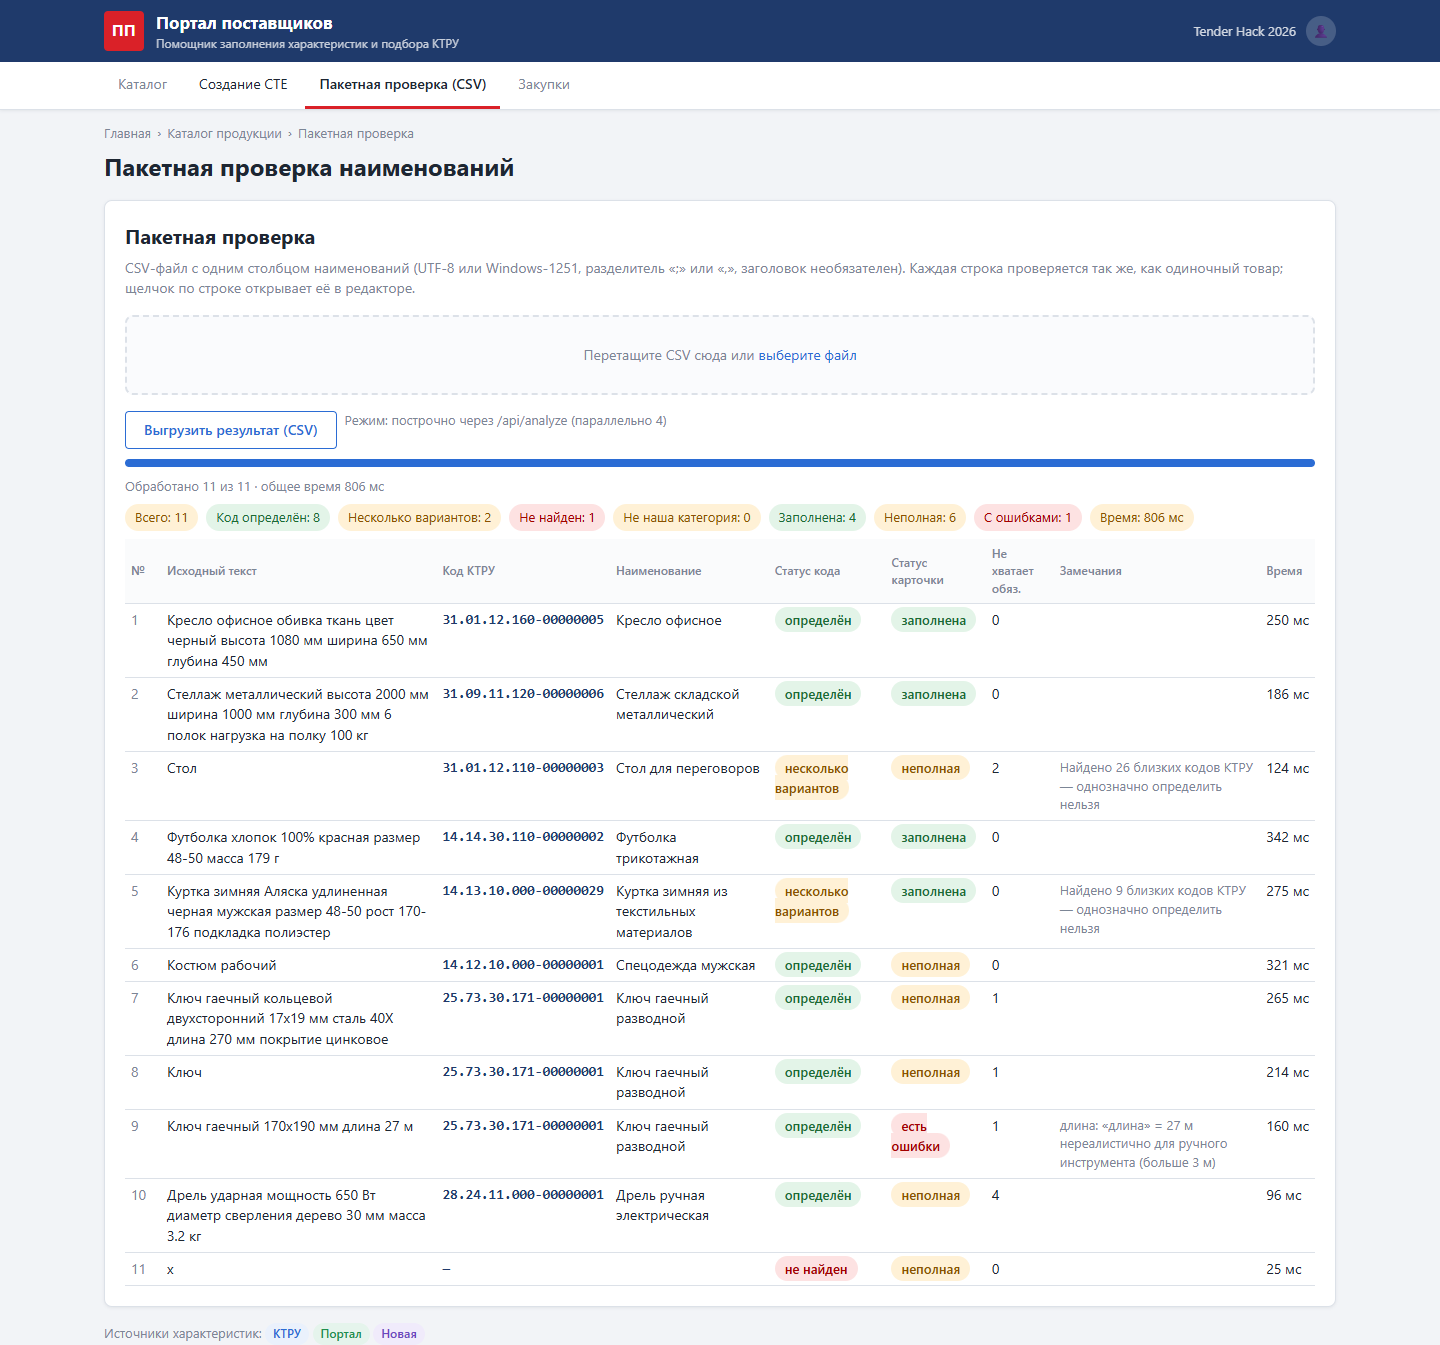
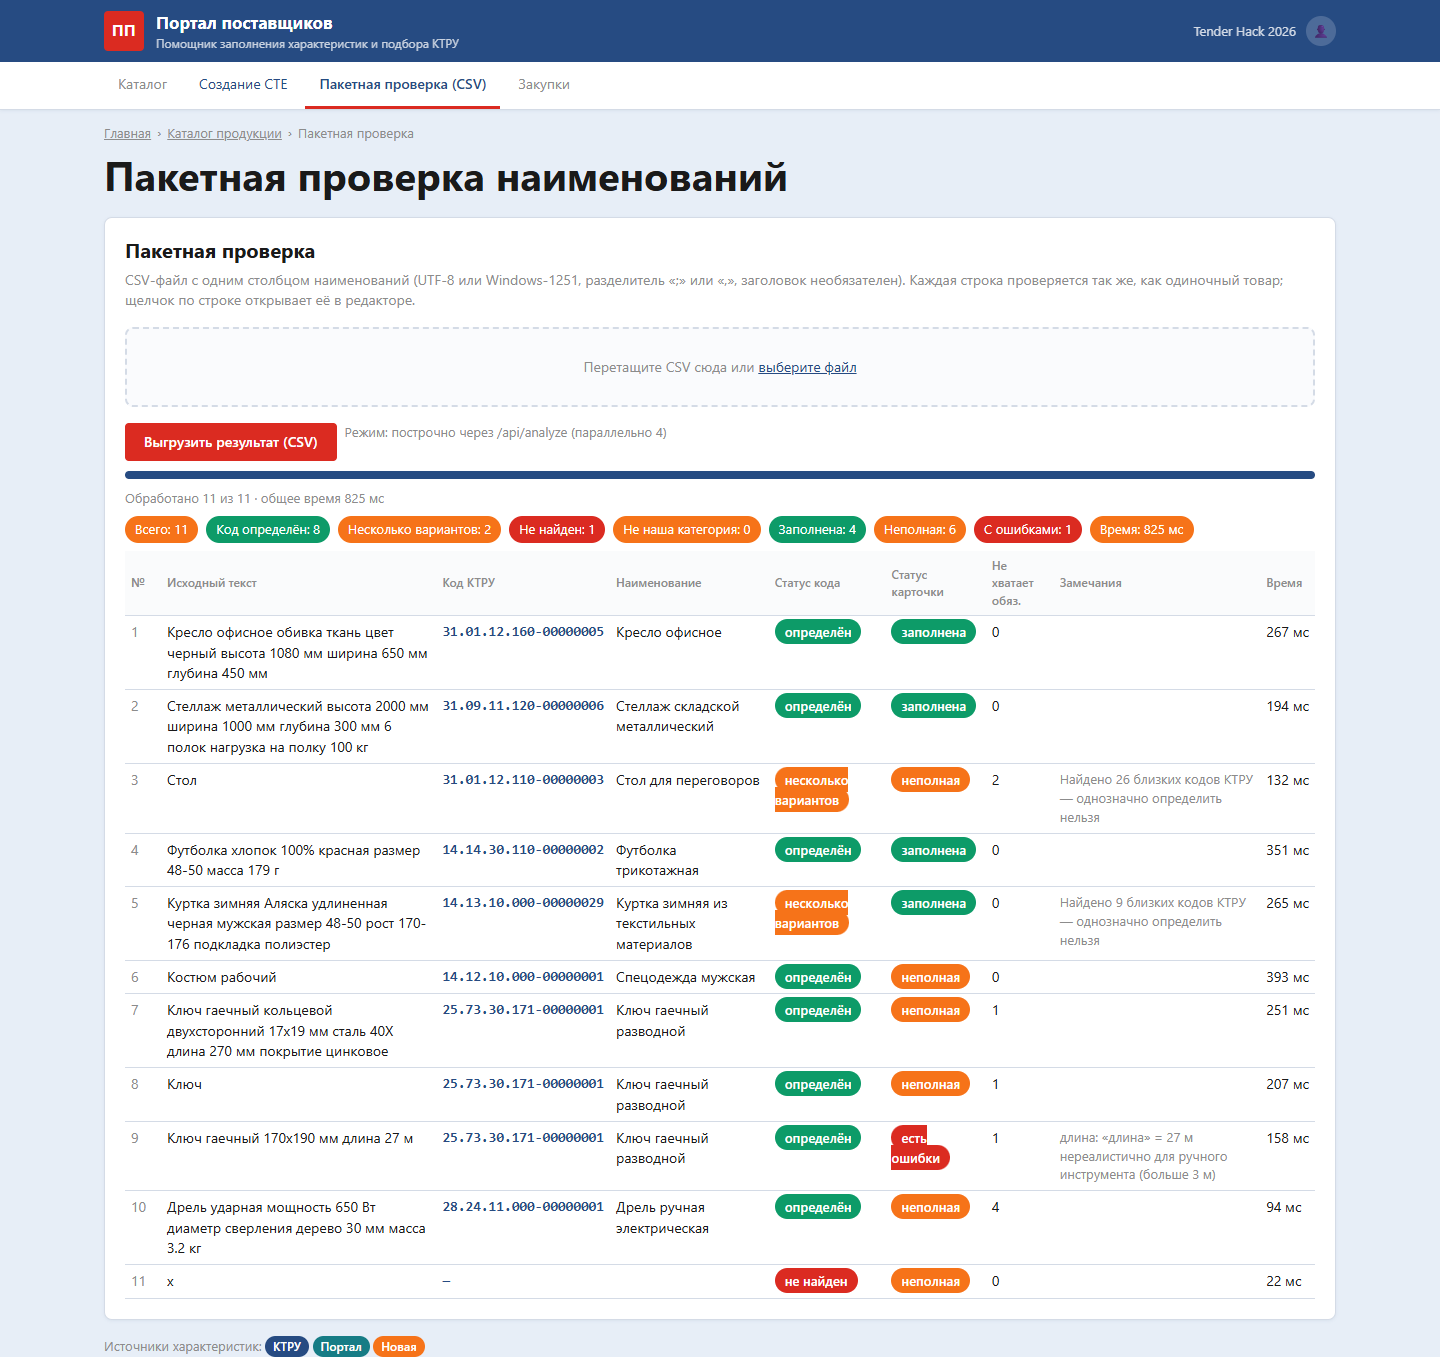
UI: apply Figma UI-kit portal tokens (colors, Open Sans, buttons, tags, badges), bump asset version, refresh screenshots

diff --git a/frontend/styles.css b/frontend/styles.css
@@ -1,39 +1,33 @@
 /* ============================================================================
- * Дизайн-токены «Портал поставщиков» (zakupki.mos.ru).
- * ИСТОЧНИК: макет Figma (G64ZNZOpvILbIPYx8XVbxO) недоступен без авторизации (HTTP 403),
- * zakupki.mos.ru 10.10.2026 не отвечал (timeout / 504) ни с одной из наших машин,
- * поэтому значения ниже — воспроизведение по публичному облику портала (тёмно-синяя
- * шапка, красный акцент Москвы, светло-серый фон, белые карточки с тонкой рамкой,
- * радиус 4 px, синие кнопки). Сверить пипеткой по макету и заменить здесь — всё
- * остальное в CSS ссылается только на эти переменные.
- * Шрифт: на портале фирменный гротеск; внешних CDN не используем — системные fallback.
+ * Дизайн-токены. ИСТОЧНИК: Figma UI-kit Портал поставщиков (свотчи доски
+ * G64ZNZOpvILbIPYx8XVbxO). Фон шапки #264B82 в макете не зафиксирован — взят основной синий.
+ * Шрифт Open Sans без CDN: локальный, если установлен, иначе системный fallback.
  * ========================================================================== */
 :root{
-  --pp-header-bg:#1f3a6b;      /* шапка портала, тёмно-синий */
-  --pp-header-text:#ffffff;
-  --pp-nav-bg:#ffffff;         /* полоса навигации под шапкой */
-  --pp-red:#da2128;            /* красный акцент (логотип Москвы, активная вкладка) */
-  --pp-primary:#2b6cd4;        /* кнопки/ссылки */
-  --pp-primary-hover:#1f57b0;
-  --pp-primary-light:#eaf1fc;
-  --pp-bg:#f2f4f7;             /* фон страницы */
-  --pp-surface:#ffffff;        /* карточки */
-  --pp-border:#dce1e8;
-  --pp-text:#1e2632;
-  --pp-muted:#7c8696;
-  --pp-muted-2:#a7afbb;        /* «серые» необязательные */
-  --pp-success:#1f8f4e; --pp-success-light:#e5f4ec;
-  --pp-warning:#c26a00; --pp-warning-light:#fff3e0;
-  --pp-danger:#d0342c;  --pp-danger-light:#fdecea;
-  --pp-violet:#6b46c1;  --pp-violet-light:#f0ebfb;
+  --pp-navy:#264B82;           /* шапка, вкладки, ссылки, вторичные кнопки, теги */
+  --pp-header-bg:var(--pp-navy); --pp-header-text:#FFFFFF;
+  --pp-nav-bg:#FFFFFF;
+  --pp-red:#DB2B21;            /* основная кнопка, акцент, ошибка */
+  --pp-primary:#DB2B21; --pp-primary-hover:#B8231B;
+  --pp-primary-light:#E7EEF7;  /* hover вторичной кнопки, фокус */
+  --pp-link:var(--pp-navy);
+  --pp-bg:#E7EEF7; --pp-surface:#FFFFFF; --pp-border:#D4DBE6;
+  --pp-text:#1A1A1A; --pp-muted:#8C8C8C;
+  --pp-grey:#7F8792; --pp-grey-light:#C9D1DF; --pp-muted-2:#7F8792;
+  --pp-sea:#167C85; --pp-sea-light:#48B8C2;
+  --pp-success:#0D9B68; --pp-success-light:#E2F4EE;
+  --pp-warning:#F67319; --pp-warning-light:#FEEEE3;
+  --pp-danger:#DB2B21;  --pp-danger-light:#FBE6E5;
+  --pp-violet:#F67319;  --pp-violet-light:#FEEEE3; /* бейдж «Новая» = оранжевый */
   --pp-radius:4px; --pp-radius-lg:8px; --pp-radius-pill:16px;
   --pp-space-1:4px; --pp-space-2:8px; --pp-space-3:12px; --pp-space-4:16px; --pp-space-5:24px;
-  --pp-shadow:0 1px 3px rgba(20,35,60,.08);
-  --pp-font:"PT Sans","Segoe UI",Roboto,"Helvetica Neue",Arial,sans-serif;
-  --pp-font-size:14px; --pp-h1:24px; --pp-h2:16px;
+  --pp-shadow:0 1px 3px rgba(38,75,130,.08);
+  --pp-font:"Open Sans","Segoe UI",Roboto,"Helvetica Neue",Arial,sans-serif;
+  --pp-font-size:14px;
+  --pp-h1:700 40px/52px var(--pp-font); --pp-h2:600 30px/40px var(--pp-font);
+  --pp-h3:700 24px/32px var(--pp-font); --pp-h4:700 20px/24px var(--pp-font);
   --pp-container:1280px;
-  /* совместимость со старыми именами */
-  --blue:var(--pp-header-bg);--accent:var(--pp-primary);--accent-l:var(--pp-primary-light);--bg:var(--pp-bg);--line:var(--pp-border);
+  --blue:var(--pp-navy);--accent:var(--pp-navy);--accent-l:var(--pp-primary-light);--bg:var(--pp-bg);--line:var(--pp-border);
   --text:var(--pp-text);--muted:var(--pp-muted);--green:var(--pp-success);--green-l:var(--pp-success-light);--orange:var(--pp-warning);
   --orange-l:var(--pp-warning-light);--red:var(--pp-danger);--red-l:var(--pp-danger-light);--violet:var(--pp-violet);--violet-l:var(--pp-violet-light)
 }
@@ -152,3 +146,33 @@ ul.next li.opt{color:var(--pp-muted-2)}
 .drop{display:block}
 .batch td.code{white-space:nowrap}
 .batch td:last-child{white-space:nowrap}
+
+/* ---- Figma UI-kit overrides ---- */
+a{color:var(--pp-link);text-decoration:underline}
+.page-title{font:var(--pp-h1)}
+h1{font:var(--pp-h4);margin:0 0 8px}h2{font:700 16px/24px var(--pp-font)}
+.btn{border-radius:var(--pp-radius)}
+.btn.primary{background:var(--pp-red);border-color:var(--pp-red);color:#fff}.btn.primary:hover{background:var(--pp-primary-hover)}
+.btn.ghost{background:#fff;border:1px solid var(--pp-navy);color:var(--pp-navy)}.btn.ghost:hover{background:#E7EEF7}
+.chip{color:var(--pp-navy)}.chip:hover{background:#E7EEF7;border-color:var(--pp-navy)}
+textarea:focus,select:focus,input:focus{border-color:var(--pp-navy);box-shadow:0 0 0 2px #E7EEF7}
+.chars tr.err input,.chars tr.err select,input.err{border-color:var(--pp-danger)}
+.chars tr.err .hint,.lbl.err{color:var(--pp-danger)}
+.nav .tab,.nav a{color:var(--pp-navy)}.nav .active{border-bottom-color:var(--pp-red)}
+.mark{background:var(--pp-red)}
+.code{color:var(--pp-navy)}
+.badge.ktru{background:var(--pp-navy);color:#fff}
+.badge.portal{background:var(--pp-sea);color:#fff}
+.badge.new{background:var(--pp-warning);color:#fff}
+.tag{background:var(--pp-navy);color:#fff;border-radius:var(--pp-radius);padding:2px 8px;font-size:12px}.tag.err{background:var(--pp-red)}
+.sbadge.good{background:var(--pp-success);color:#fff}.sbadge.mid{background:var(--pp-warning);color:#fff}.sbadge.bad{background:var(--pp-danger);color:#fff}
+.status.ok{background:var(--pp-success-light);color:var(--pp-success);border-color:var(--pp-success)}
+.status.need_more,.status.ambiguous,.status.not_found{background:var(--pp-warning-light);color:#B4500C;border-color:var(--pp-warning)}
+.status.error{background:var(--pp-danger-light);color:var(--pp-danger);border-color:var(--pp-danger)}
+.funnel .bar{background:var(--pp-navy)}.funnel .bar.last{background:var(--pp-success)}
+.fill .counter{color:var(--pp-navy)}
+.pbar > i{background:var(--pp-navy)}
+.corr .kind{background:var(--pp-navy);color:#fff}
+.corr .from{color:var(--pp-danger)}.corr .to{color:var(--pp-success)}
+.hl-preview mark.error{background:var(--pp-danger-light);color:var(--pp-danger);border-bottom-color:var(--pp-danger)}
+.hl-preview mark.warning{background:var(--pp-warning-light);color:#B4500C;border-bottom-color:var(--pp-warning)}

diff --git a/frontend/index.html b/frontend/index.html
@@ -4,8 +4,8 @@
   <meta charset="UTF-8" />
   <meta name="viewport" content="width=device-width, initial-scale=1" />
   <title>Помощник заполнения характеристик — Портал поставщиков</title>
-  <link rel="icon" type="image/svg+xml" href="/static/favicon.svg?v=20261010f" />
-  <link rel="stylesheet" href="/static/styles.css?v=20261010f" />
+  <link rel="icon" type="image/svg+xml" href="/static/favicon.svg?v=20261010g" />
+  <link rel="stylesheet" href="/static/styles.css?v=20261010g" />
 </head>
 <body>
   <header class="top">
@@ -75,7 +75,7 @@
         <input type="file" id="csvFile" accept=".csv,.txt,text/csv" hidden />
       </label>
       <div class="actions">
-        <button class="btn ghost" id="exportCsv" disabled>Выгрузить результат (CSV)</button>
+        <button class="btn primary" id="exportCsv" disabled>Выгрузить результат (CSV)</button>
         <span class="muted" id="batchMode"></span>
       </div>
       <div class="pbar"><i id="pbar"></i></div>
@@ -87,6 +87,6 @@
 
   <footer class="foot">Источники характеристик: <span class="badge ktru">КТРУ</span> <span class="badge portal">Портал</span> <span class="badge new">Новая</span></footer>
 
-  <script src="/static/app.js?v=20261010f"></script>
+  <script src="/static/app.js?v=20261010g"></script>
 </body>
 </html>
